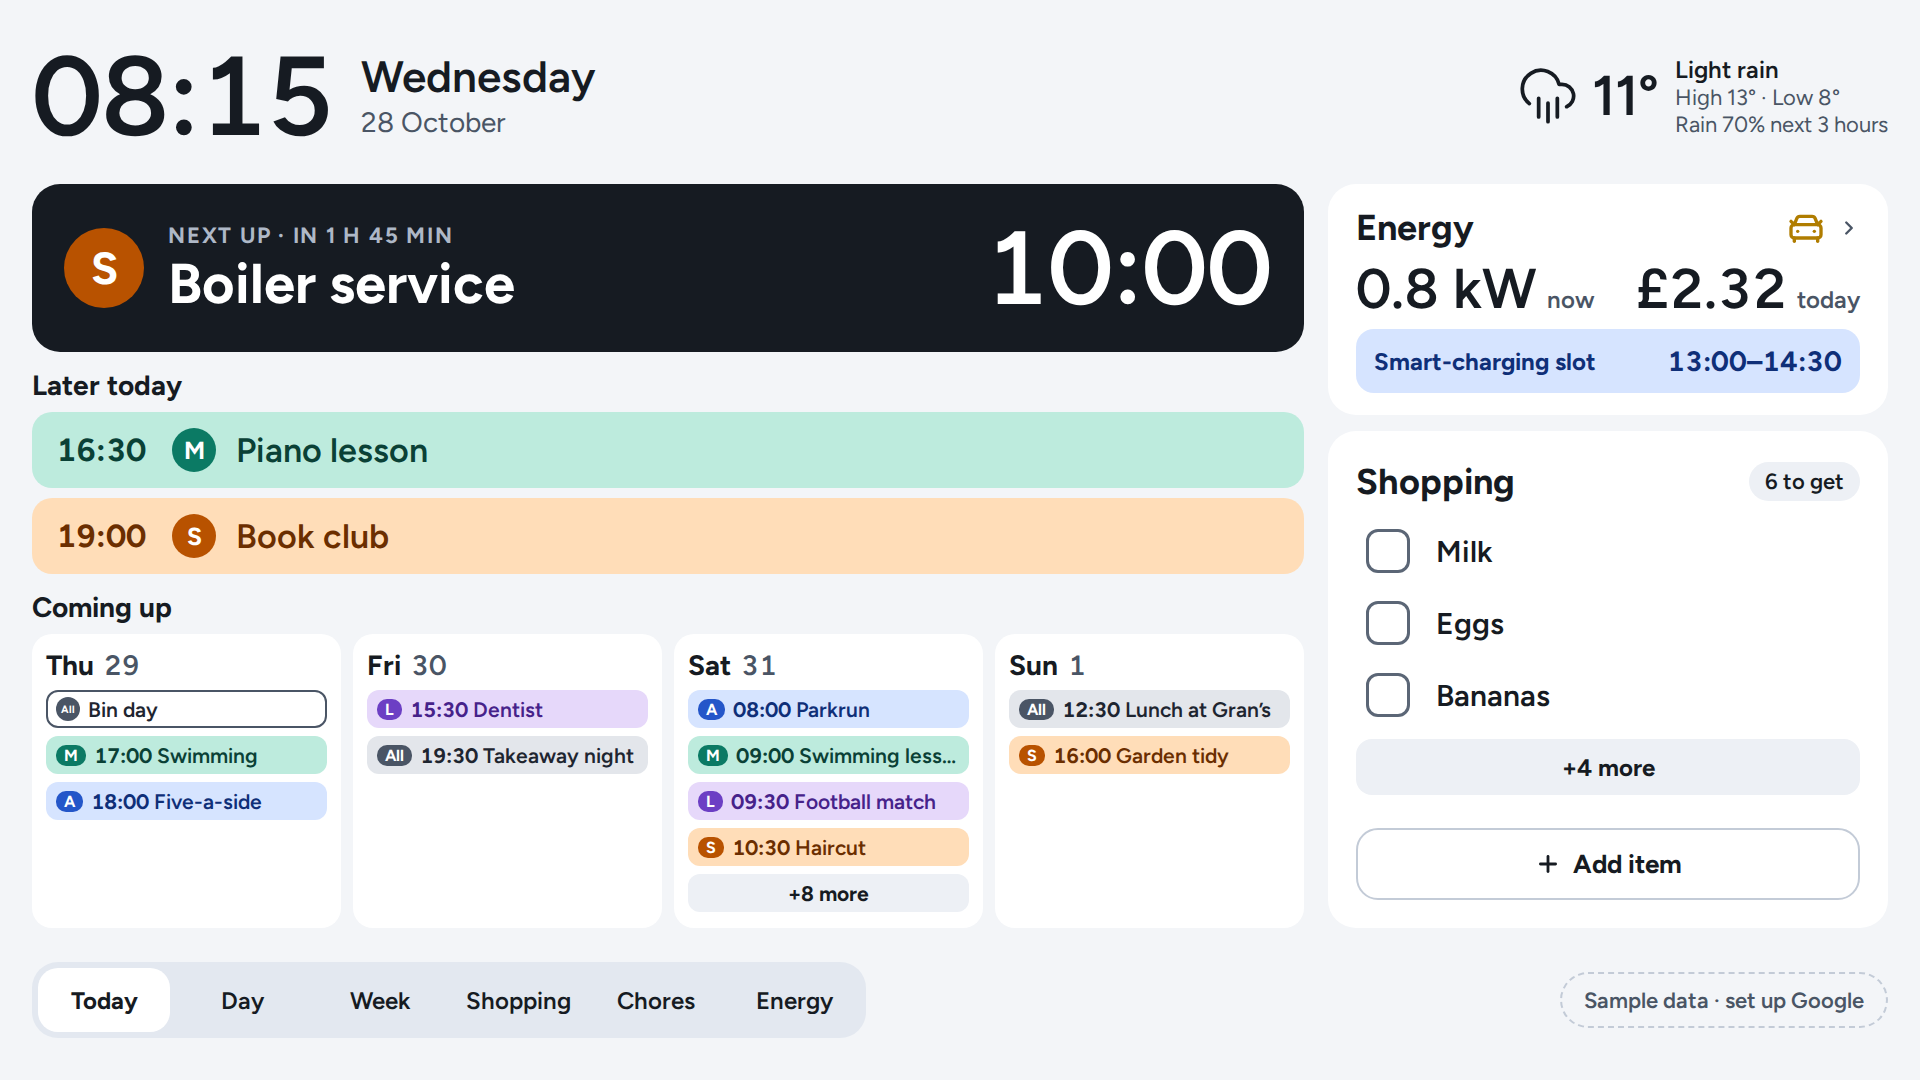
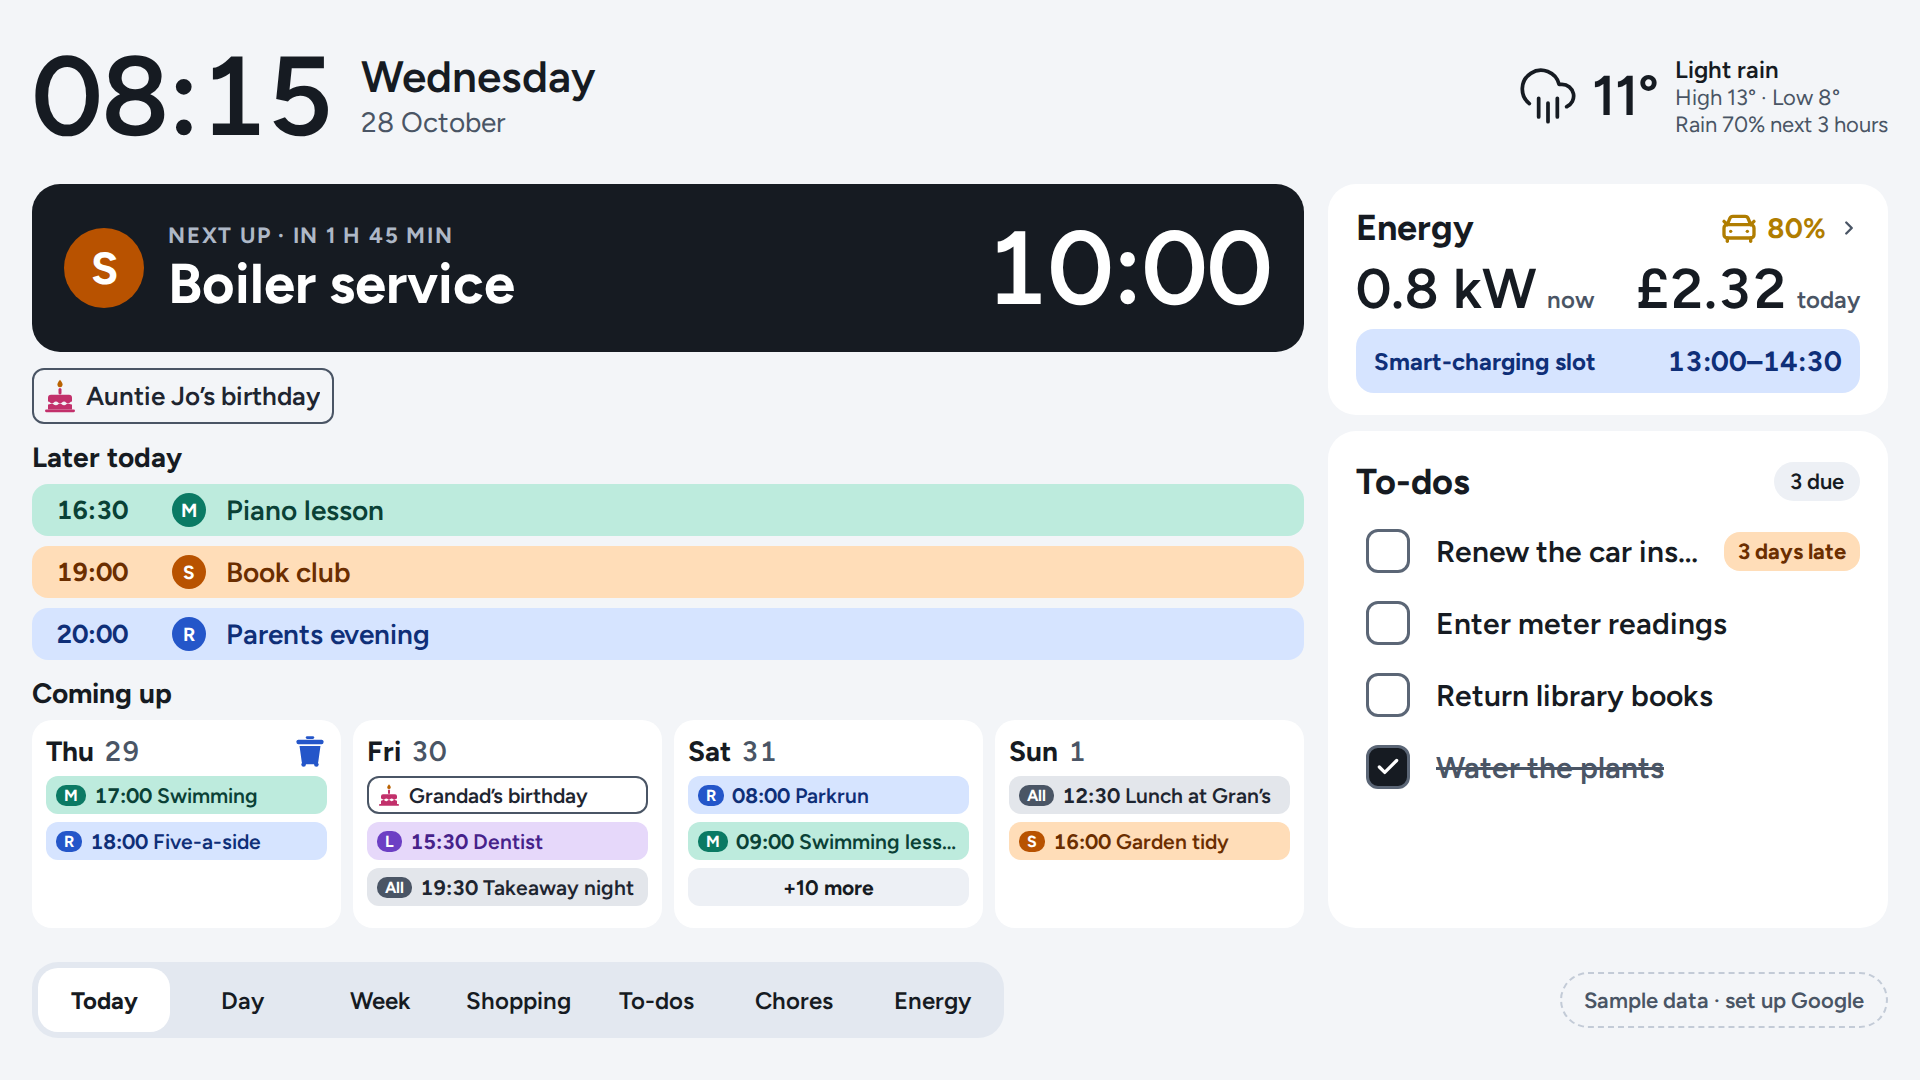
Drop the Shopping card from the Today view
"6 to get" says nothing at a glance, and adding at the wall happens in
the Shopping Section anyway, a tap away in the bar along the bottom. The
To-dos card takes the space, showing five rows instead of three.

The Today view still loads the Shopping list without showing it: a list
only syncs when it's read, so this sends changes queued while offline and
keeps the failure alert working while the Hub sits on the Today view.

Claude-Session: https://claude.ai/code/session_01BuxoMedbSJmqX2zH4b4bcT

diff --git a/app/e2e/todos.spec.ts b/app/e2e/todos.spec.ts
@@ -27,8 +27,9 @@ test('the Today view shows To-dos due today and overdue, overdue first, saying h
 	const first = card.getByRole('button').first();
 	await expect(first).toHaveAccessibleName('Tick off Renew the car insurance');
 	await expect(first).toContainText('3 days late');
-	// The overdue one, three due today (one just ticked off), and room for three rows: two, then the rest.
-	await expect(card.getByRole('link', { name: '+2 more' })).toBeVisible();
+	// The overdue one and three due today (one just ticked off), all fitting in the card's five rows.
+	await expect(card.getByRole('button')).toHaveCount(4);
+	await expect(card.getByRole('link', { name: /more/ })).toHaveCount(0);
 	await expect(card.getByText('3 due')).toBeVisible();
 });
 
@@ -61,17 +62,9 @@ test('adding a one-off To-do sends it with the due date chosen', async ({ page }
 	letGo();
 });
 
-test('the Today view’s Shopping card adds an item without opening the list', async ({ page }) => {
-	const { sent, letGo } = await catchChanges(page, '/api/shopping');
+test('the Today view has no Shopping list; it’s in the Shopping Section', async ({ page }) => {
 	await page.goto('/');
-	const card = page.locator('section.shopping');
-	await expect(card.getByText('6 to get')).toBeVisible();
-	await card.getByRole('button', { name: 'Add' }).click();
-	await card.getByRole('textbox', { name: 'New item' }).fill('Oat milk');
-	await card.getByRole('button', { name: 'Add', exact: true }).click();
-	await expect.poll(() => sent).toEqual([{ action: 'add', text: 'Oat milk' }]);
-	letGo();
-	await expect(card.getByRole('link', { name: /Shopping/ })).toHaveAttribute('href', '/shopping');
+	await expect(page.locator('section.shopping')).toHaveCount(0);
 });
 
 test('a long press offers to remove a To-do, and Remove sends it', async ({ page }) => {

diff --git a/app/src/routes/+page.svelte b/app/src/routes/+page.svelte
@@ -6,7 +6,6 @@
 	import Banner from '#lib/components/Banner.svelte';
 	import BinIcon from '#lib/components/BinIcon.svelte';
 	import EnergyCard from '#lib/components/EnergyCard.svelte';
-	import ShoppingCard from '#lib/components/ShoppingCard.svelte';
 	import TodosCard from '#lib/components/TodosCard.svelte';
 	import { fitColumn } from '#lib/fit.ts';
 	import { addDays, dayOfMonth, formatIn, formatTime, formatWeekday } from '#lib/time.ts';
@@ -151,8 +150,7 @@
 
 <aside>
 	<EnergyCard {...data.energy} />
-	<TodosCard todos={data.todos.items} status={data.todos.status} today={data.today} rows={3} />
-	<ShoppingCard items={data.shopping.items} status={data.shopping.status} />
+	<TodosCard todos={data.todos.items} status={data.todos.status} today={data.today} rows={5} />
 </aside>
 
 <style>

diff --git a/app/src/routes/+page.server.ts b/app/src/routes/+page.server.ts
@@ -11,8 +11,10 @@ const DAYS = 5;
 
 export const load: PageServerLoad = async () => {
 	const today = dayKey(now());
-	const [calendar, shopping, todos, energy] = await Promise.all([
+	const [calendar, , todos, energy] = await Promise.all([
 		loadCalendar(today, addDays(today, DAYS)),
+		// Not shown on the Today view, but a list only syncs when it's read: this sends changes queued while offline,
+		// and keeps the failure alert working, while the Hub sits on the Today view.
 		loadShopping(),
 		loadTodos(),
 		loadEnergy()
@@ -21,7 +23,6 @@ export const load: PageServerLoad = async () => {
 		today,
 		events: calendar.events,
 		owners: calendar.household,
-		shopping,
 		todos,
 		energy: {
 			rates: energy.tariff?.rates ?? null,

diff --git a/docs/requirements.md b/docs/requirements.md
@@ -40,7 +40,7 @@ Ross, Sam, Maya and Leo. Everyone sees every Event and can use every Quick actio
 
 ### Layout and navigation
 
-- The Today view is home: what's next, the rest of today, the coming days, the Shopping list and the weather.
+- The Today view is home: what's next, the rest of today, the coming days and the weather. The Shopping list isn't on it: it's in the Shopping Section, reached from the bar along the bottom.
 - Sections: Calendar (Day view and Week view; no Month view), Shopping and, after v1, Watch.
 - A bar along the bottom switches between the Today view and the Sections.
 - After about 2 minutes without a touch, the Hub returns to the Today view, unless something is playing in Watch.
@@ -81,7 +81,7 @@ Ross, Sam, Maya and Leo. Everyone sees every Event and can use every Quick actio
 3. **Alexa:** adding Shopping items by voice.
 4. **Chores**, after its first slice (milestone 7): a lane per child of Chores grouped into Routines, ticked off at the Hub on trust. Ticks earn Stars to swap for personal Rewards; a marble goes in the family jar on each day every child finishes; streaks survive one missed day; finishing a Routine plays a chime and an animation. Design and open questions: [chores notes](../design/mockups/chores/notes.md).
 5. **Energy**, brought forward to milestone 11 while the Pi is on order: an Energy Section and a Today view card for the Household's Intelligent Octopus Go tariff. The price now, Peak or Off-peak; the next cheap time, whether the Off-peak window or a Smart-charging slot; when to run the dishwasher, washing machine and tumble drier so they finish while it's cheap; Live demand and the Car's state from the Zappi; and today's and each day's House use and Car charging, each Half-hour costed at the rate it fell in, usage only. Read-only: the Hub never controls the Zappi or the car's charging ([ADR 0007](adr/0007-energy-from-octopus-rates-and-the-zappi.md)). Design and open questions: [energy notes](../design/mockups/energy/notes.md).
-6. **To-dos:** the Household's one-off and repeating jobs, from a Google Tasks list, in a To-dos Section and on a Today view card, where the Shopping list becomes a smaller card with a quick add. Repeats are set up on phones; the Hub shows what's due and overdue, and ticks To-dos off. Not scheduled yet. Design and open questions: [To-dos notes](../design/mockups/todos/notes.md).
+6. **To-dos:** the Household's one-off and repeating jobs, from a Google Tasks list, in a To-dos Section and on a Today view card. Repeats are set up on phones; the Hub shows what's due and overdue, and ticks To-dos off. Not scheduled yet. Design and open questions: [To-dos notes](../design/mockups/todos/notes.md).
 7. **Photos:** browse the Household's Google Photos at the Hub, and a slideshow. Not scheduled yet. Open questions: since March 2025 Google only lets an app read photos it uploaded itself or ones someone picks for it in Google's Picker, so the Hub can't just follow an album as it grows. Is picking on a phone, with the Hub keeping its own copies on the Pi, good enough? And does the slideshow replace the dim clock in Sleep, play when the Hub is idle, or only play when asked?
 8. **Meal planner:** what's for dinner each day this week, on the Today view and in its own Section. Not scheduled yet. Saved meals each list their ingredients, and meals live in the Hub's SQLite. The Hub doesn't track what's in the cupboard, since an inventory would be wrong within a week. Instead, adding a meal to the plan shows its ingredients to review and add to the Shopping list in one tap:
    - Each ingredient is either "always buy", ticked by default, or "usually in", unticked, so someone checks the cupboard for those.

diff --git a/design/mockups/todos/notes.md b/design/mockups/todos/notes.md
@@ -19,6 +19,7 @@ To-dos aren't Chores. Chores are the children's, grouped into Routines, and earn
 - **Remove works as it does for Shopping too** (8 November 2026): a long press offers **Remove** or **Keep**. For a repeating To-do, removing skips that one occurrence, and the repeat carries on.
 - **A To-dos Section, and a card on the Today view.**
 - **The Today view's Shopping list becomes a card** with the count ("6 to get"), a quick **+ Add** button, and a tap through to the Shopping Section. The full list only ever showed its first few items there anyway, and the space goes to To-dos.
+- **The Shopping card is dropped from the Today view** (17 November 2026). "6 to get" says nothing at a glance, and adding happens in the Shopping Section anyway. The To-dos card takes its space, showing five rows instead of three.
 
 ## What the Google Tasks API does with repeating tasks
 
@@ -37,7 +38,7 @@ So the Hub can show what's due and overdue, and one-off To-dos with future dates
 
 ## How it works at the wall
 
-- **The side column of the Today view:** the Energy card, then To-dos, then the Shopping card.
+- **The side column of the Today view:** the Energy card, then To-dos (the Shopping card was dropped on 17 November 2026).
 - **Which list holds To-dos** is chosen on the setup page, like the Shopping list.
 
 - **Today view card:** To-dos due today or overdue, overdue first, each with how late it is ("2 days late"). Ticking off works on the card itself.

diff --git a/README.md b/README.md
@@ -1,8 +1,8 @@
 # FamilyHub
 
-**A family wall display for the kitchen.** One glance at a touchscreen by the kettle shows what's on today and who it's for, the week ahead, the shopping list, and what the electricity is costing. Nobody has to ask, shout up the stairs, or check four phones.
+**A family wall display for the kitchen.** One glance at a touchscreen by the kettle shows what's on today and who it's for, the week ahead, the jobs that are due, and what the electricity is costing. Nobody has to ask, shout up the stairs, or check four phones.
 
-![The Today view: the next Event with a countdown, the rest of today, the next four days, an Energy card with what the house is using, today's cost so far, a car icon showing it plugged in, and a Smart-charging slot, and the shopping list](docs/images/today-view.png)
+![The Today view: the next Event with a countdown, the rest of today, the next four days, an Energy card with what the house is using, today's cost so far, a car icon showing it plugged in, and a Smart-charging slot, and the To-dos due today](docs/images/today-view.png)
 
 <sub>The Today view, running on a PC with sample data.</sub>
 
